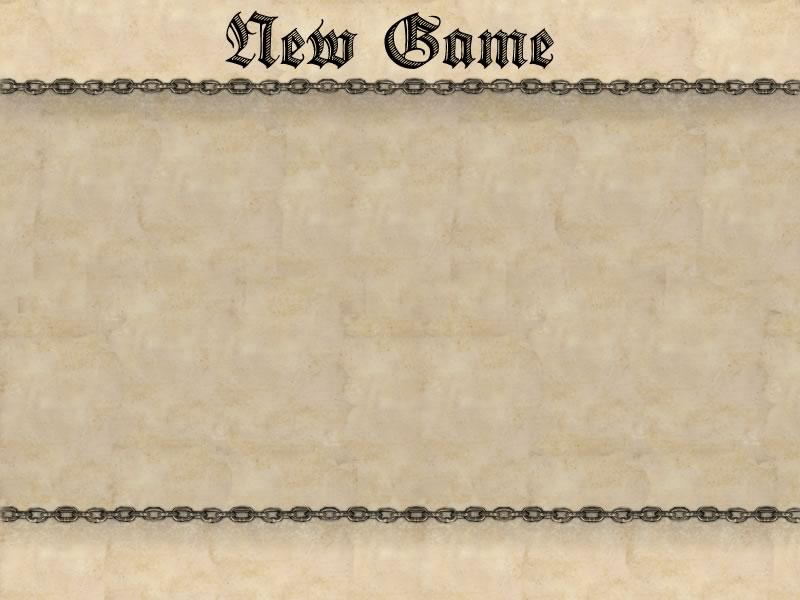
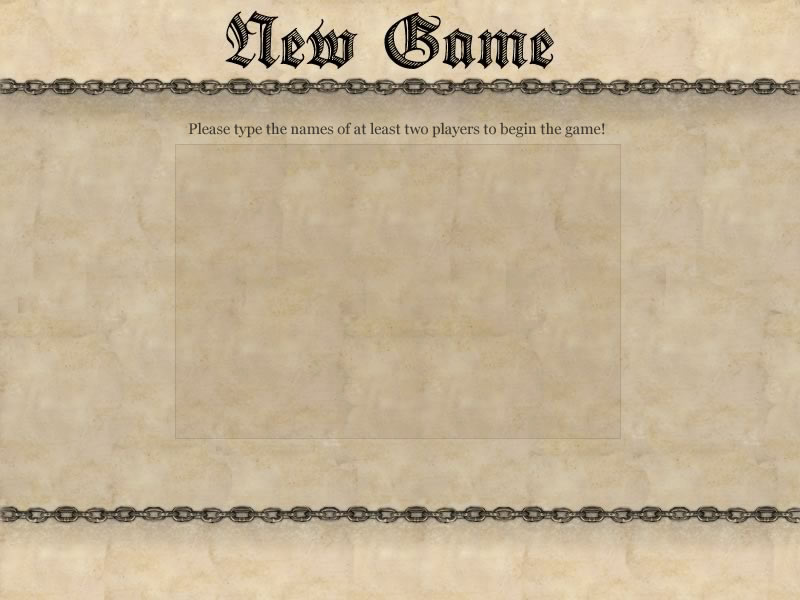
- Added more sounds! - Improved "InputPlayerDataPanel" layout

Changed region(s): [[0.25, 0.21, 0.75, 0.24]]

diff --git a/javassonne/src/org/javassonne/ui/panels/InputPlayerDataPanel.java b/javassonne/src/org/javassonne/ui/panels/InputPlayerDataPanel.java
@@ -92,20 +92,21 @@ public class InputPlayerDataPanel extends AbstractHUDPanel implements
 				new Point(492, 543), generalButtons_);
 
 		// add the labels to labels_ panel
-		addLabelToPanel(new Point(200, 150), "Player 1", labels_);
-		addLabelToPanel(new Point(200, 195), "Player 2", labels_);
-		addLabelToPanel(new Point(200, 240), "Player 3", labels_);
-		addLabelToPanel(new Point(200, 285), "Player 4", labels_);
-		addLabelToPanel(new Point(200, 330), "Player 5", labels_);
-		addLabelToPanel(new Point(200, 375), "Player 6", labels_);
+		int offset = 165;
+		addLabelToPanel(new Point(200, 0+offset), "Player 1", labels_);
+		addLabelToPanel(new Point(200, 45+offset), "Player 2", labels_);
+		addLabelToPanel(new Point(200, 90+offset), "Player 3", labels_);
+		addLabelToPanel(new Point(200, 135+offset), "Player 4", labels_);
+		addLabelToPanel(new Point(200, 180+offset), "Player 5", labels_);
+		addLabelToPanel(new Point(200, 225+offset), "Player 6", labels_);
 
 		// add text boxes to the textFields_ panel
-		addTextBoxToPanel(new Point(250, 150), textFields_);
-		addTextBoxToPanel(new Point(250, 195), textFields_);
-		addTextBoxToPanel(new Point(250, 240), textFields_);
-		addTextBoxToPanel(new Point(250, 285), textFields_);
-		addTextBoxToPanel(new Point(250, 330), textFields_);
-		addTextBoxToPanel(new Point(250, 375), textFields_);
+		addTextBoxToPanel(new Point(255, 0+offset), textFields_);
+		addTextBoxToPanel(new Point(255, 45+offset), textFields_);
+		addTextBoxToPanel(new Point(255, 90+offset), textFields_);
+		addTextBoxToPanel(new Point(255, 135+offset), textFields_);
+		addTextBoxToPanel(new Point(255, 180+offset), textFields_);
+		addTextBoxToPanel(new Point(255, 225+offset), textFields_);
 
 		// place MeepleColors into ImageIcon array
 		ImageIcon[] colors = new ImageIcon[MeepleColor.values().length];
@@ -116,12 +117,12 @@ public class InputPlayerDataPanel extends AbstractHUDPanel implements
 		}
 
 		// add combo boxes to comboBoxes_ panel
-		addComboBoxToPanel(new Point(550, 150), colors, 0, comboBoxes_);
-		addComboBoxToPanel(new Point(550, 195), colors, 1, comboBoxes_);
-		addComboBoxToPanel(new Point(550, 240), colors, 2, comboBoxes_);
-		addComboBoxToPanel(new Point(550, 285), colors, 3, comboBoxes_);
-		addComboBoxToPanel(new Point(550, 330), colors, 4, comboBoxes_);
-		addComboBoxToPanel(new Point(550, 375), colors, 5, comboBoxes_);
+		addComboBoxToPanel(new Point(545, 0+offset), colors, 0, comboBoxes_);
+		addComboBoxToPanel(new Point(545, 45+offset), colors, 1, comboBoxes_);
+		addComboBoxToPanel(new Point(545, 90+offset), colors, 2, comboBoxes_);
+		addComboBoxToPanel(new Point(545, 135+offset), colors, 3, comboBoxes_);
+		addComboBoxToPanel(new Point(545, 180+offset), colors, 4, comboBoxes_);
+		addComboBoxToPanel(new Point(545, 225+offset), colors, 5, comboBoxes_);
 
 		// add panels
 		add(textFields_);
@@ -160,7 +161,16 @@ public class InputPlayerDataPanel extends AbstractHUDPanel implements
 		JComboBox comboBox = new JComboBox(colors);
 		comboBox.setSelectedIndex(selectedIndex);
 		comboBox.setLocation(location);
+		// determine whether we need to fake full screen.
 		comboBox.setSize(50, 38);
+		
+		try {
+			String os = System.getProperty("os.name");
+			if (os.equals("Mac OS X"))
+				comboBox.setSize(65, 38);
+		} catch (Exception e) {
+			// who cares?
+		}
 		panel.add(comboBox);
 	}
 

diff --git a/javassonne/src/org/javassonne/ui/JSoundManager.java b/javassonne/src/org/javassonne/ui/JSoundManager.java
@@ -31,8 +31,12 @@ import sun.audio.AudioStream;
 public class JSoundManager {
 
 	public static final String TADA = "sounds/tada.wav";
-	public static final String START_UP = "sounds/startup.wav";
+	public static final String PICKUP = "sounds/pickup.wav";
+	public static final String ROTATE = "sounds/rotate.wav";
+	public static final String PLACE = "sounds/place.wav";
 	public static final String ERROR = "sounds/error.wav";
+	public static final String CONFIRM = "sounds/confirm.wav";
+	public static final String CANCEL = "sounds/cancel.wav";
 
 	private Properties registered_ = new Properties();
 
@@ -47,6 +51,16 @@ public class JSoundManager {
 	// notification is triggered
 	protected JSoundManager() {
 		// List of sounds to bind with notification on game start
+		register_sound(Notification.START_GAME, TADA);
+		register_sound(Notification.TILE_DROPPED, PLACE);
+		register_sound(Notification.MEEPLE_VILLAGER_DROPPED, PLACE);
+		register_sound(Notification.MEEPLE_FARMER_DROPPED, PLACE);
+		register_sound(Notification.MEEPLE_FARMER_DRAG_STARTED, PICKUP);
+		register_sound(Notification.MEEPLE_VILLAGER_DRAG_STARTED, PICKUP);
+		register_sound(Notification.TILE_ROTATE_LEFT, ROTATE);
+		register_sound(Notification.TILE_ROTATE_RIGHT, ROTATE);
+		register_sound(Notification.END_TURN, CONFIRM);
+        register_sound(Notification.UNDO_PLACE_TILE, CANCEL);
 		register_sound(Notification.START_GAME, TADA);
 		
 	}

diff --git a/javassonne/src/org/javassonne/ui/Main.java b/javassonne/src/org/javassonne/ui/Main.java
@@ -39,8 +39,8 @@ public class Main {
 		// Make sure our HostMonitor singleton is started
 		HostMonitor.numberOfHosts();
 
-		// Play start-up sound and initialize sound monitor
-		JSoundManager.getInstance().play(JSoundManager.START_UP);
+		// Initialize sound monitor
+		JSoundManager.getInstance();
 
 		// create the application controller. This will handle starting a new
 		// game, etc...
